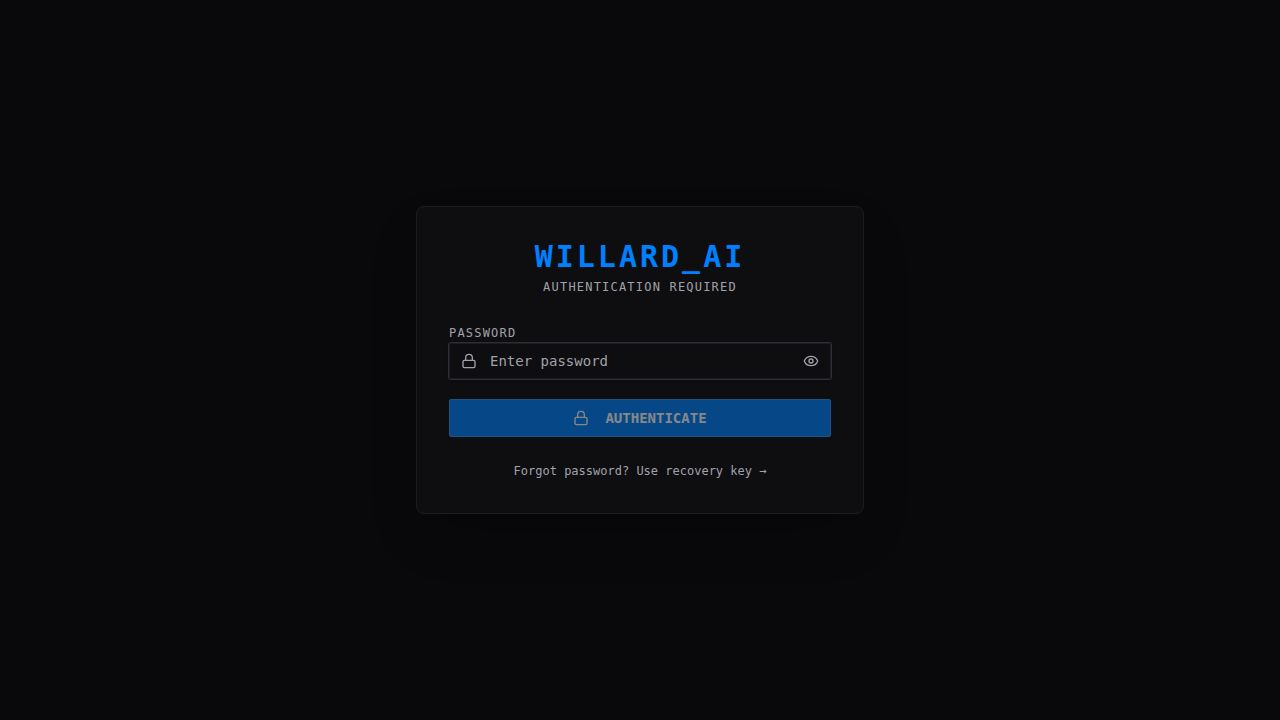
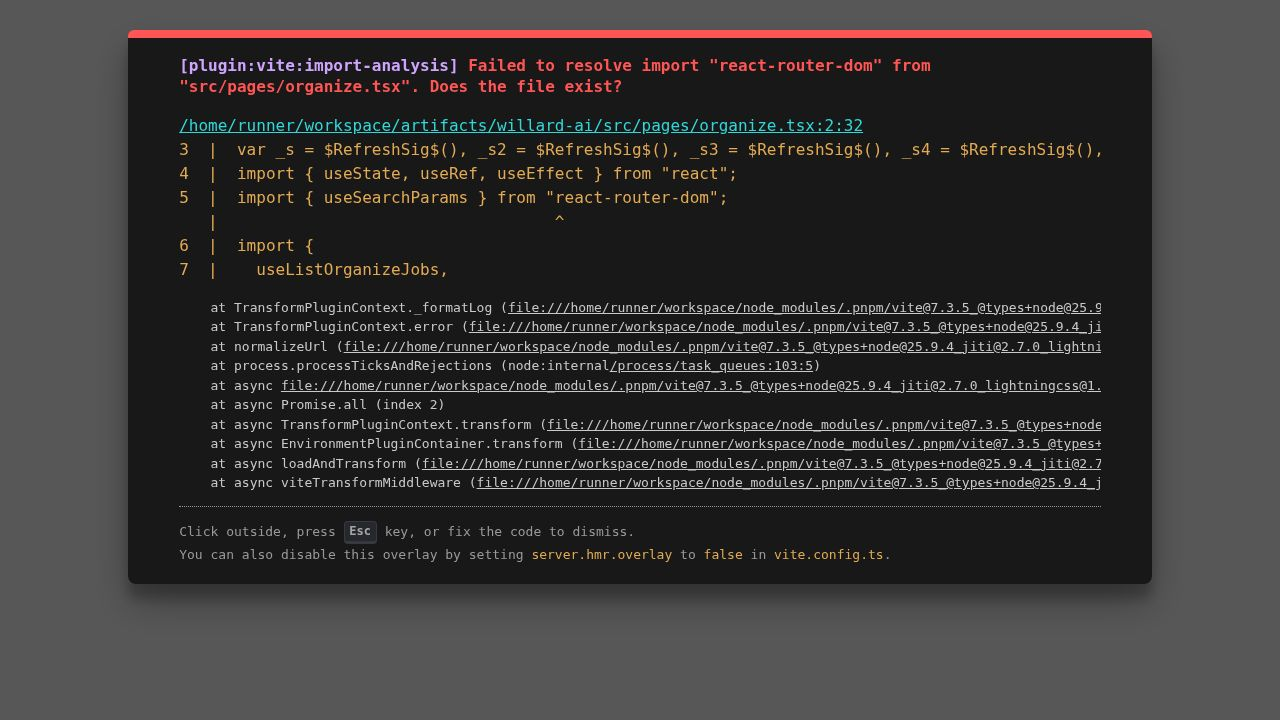
Task #127 (Scan Engine M3): Startup delay, indexOtherFiles toggle, UI note
Adaptive startup delay:
- Added notifyUiConnected() / waitForUiConnected() startup gate in
  job-engine.ts — resolves on first authenticated UI request or after
  30-second fallback timeout
- Auth middleware (app.ts) calls notifyUiConnected() on first
  authenticated API request (_firstAuthSeen flag, idempotent)
- startLibraryWatcher() now defers its first heartbeat until the gate
  fires instead of using the hardcoded 4-second initial timer
- waitForUiConnected exported via library-engine/index.ts

Index other files toggle:
- Added indexOtherFiles boolean (default true) to app_settings schema
  (lib/db/src/schema/settings.ts) and bootstrapSessionTable migration
  (ADD COLUMN IF NOT EXISTS index_other_files boolean NOT NULL DEFAULT true)
- Added indexOtherFiles to ScannerSettings interface + DEFAULT_SCANNER_SETTINGS
  (system-filter.ts) and new "other_type_excluded" SkipReason value
- Both walkNas (sync) and walkNasAsync (async) skip files where
  classifyMediaType(ext) === "other" when indexOtherFiles is false,
  BEFORE stat() for maximum NAS I/O savings
- runScanJob (job-engine.ts) selects and passes indexOtherFiles through
  to the walker via ScannerSettings
- GET /api/settings/scanner and PUT /api/settings/scanner now expose
  and accept indexOtherFiles (routes/settings.ts)

UI:
- Added "Index other file types" to the TOGGLES array in settings.tsx
- Added amber warning note in the Exclusion Toggles card body when
[…]

diff --git a/artifacts/api-server/src/lib/library-engine/job-engine.ts b/artifacts/api-server/src/lib/library-engine/job-engine.ts
@@ -48,6 +48,26 @@ export function clearThumbnailPriority(nasPath: string): void {
 // when a new job starts.
 let lastCompletedProgress: ProgressEvent | null = null;
 
+// ── Startup gate ──────────────────────────────────────────────────────────────
+// Defers background scans until the first authenticated UI request arrives, or
+// until 30 seconds elapse — whichever is first.  This keeps the app instantly
+// browsable at startup without competing with the UI for NAS I/O.
+
+let _uiConnectedResolve: (() => void) | null = null;
+const _uiConnectedPromise = new Promise<void>(resolve => {
+  _uiConnectedResolve = resolve;
+  const t = setTimeout(resolve, 30_000);
+  (t as any).unref?.();
+});
+
+export function notifyUiConnected(): void {
+  if (_uiConnectedResolve) { _uiConnectedResolve(); _uiConnectedResolve = null; }
+}
+
+export function waitForUiConnected(): Promise<void> {
+  return _uiConnectedPromise;
+}
+
 export function getLastCompletedProgress(): ProgressEvent | null {
   return lastCompletedProgress;
 }
@@ -548,6 +568,7 @@ async function runScanJob(
         ignoreSidecarFiles: appSettingsTable.ignoreSidecarFiles,
         ignoreEmptyFolders: appSettingsTable.ignoreEmptyFolders,
         followSymlinks:     appSettingsTable.followSymlinks,
+        indexOtherFiles:    appSettingsTable.indexOtherFiles,
       }).from(appSettingsTable).limit(1);
       if (settingsRow) scannerSettings = {
         ignoredFolders:    settingsRow.ignoredFolders ?? [],
@@ -558,6 +579,7 @@ async function runScanJob(
         ignoreSidecarFiles: settingsRow.ignoreSidecarFiles ?? true,
         ignoreEmptyFolders: settingsRow.ignoreEmptyFolders ?? false,
         followSymlinks:     settingsRow.followSymlinks ?? false,
+        indexOtherFiles:    settingsRow.indexOtherFiles ?? true,
       };
     } catch { /* use defaults if settings table not yet migrated */ }
 

diff --git a/artifacts/api-server/src/lib/library-watcher.ts b/artifacts/api-server/src/lib/library-watcher.ts
@@ -1,7 +1,7 @@
 import * as fs from "fs";
 import { db, appSettingsTable } from "@workspace/db";
 import { checkNasReachable } from "./nas-storage";
-import { getActiveJobId, startJob } from "./library-engine";
+import { getActiveJobId, startJob, waitForUiConnected } from "./library-engine";
 import { recordActivity } from "./library-activity";
 import { logger } from "./logger";
 
@@ -326,7 +326,13 @@ export async function runWatcherHeartbeat(): Promise<void> {
 
 export function startLibraryWatcher(): void {
   if (heartbeatTimer) return;
-  setTimeout(() => { runWatcherHeartbeat().catch(() => {}); }, 4_000);
-  heartbeatTimer = setInterval(() => { runWatcherHeartbeat().catch(() => {}); }, HEARTBEAT_MS);
-  heartbeatTimer.unref?.();
+  // Defer the first heartbeat until the UI connects (first authenticated request)
+  // or the 30-second fallback fires.  Prevents the initial sweep from competing
+  // with the UI for NAS bandwidth before the user sees the first page.
+  waitForUiConnected().then(() => {
+    if (heartbeatTimer) return; // guard against duplicate calls
+    runWatcherHeartbeat().catch(() => {});
+    heartbeatTimer = setInterval(() => { runWatcherHeartbeat().catch(() => {}); }, HEARTBEAT_MS);
+    heartbeatTimer.unref?.();
+  }).catch(() => {});
 }

diff --git a/artifacts/api-server/src/app.ts b/artifacts/api-server/src/app.ts
@@ -12,7 +12,7 @@ import router from "./routes";
 import { logger } from "./lib/logger";
 import { bootstrapWillardAIDir, nasLogStream, checkNasReachable } from "./lib/nas-storage";
 import { checkMediaToolsOnStartup } from "./lib/media-tools";
-import { recoverInterruptedJobs } from "./lib/library-engine";
+import { recoverInterruptedJobs, notifyUiConnected } from "./lib/library-engine";
 import { warmThumbnailCache } from "./routes/media";
 import { startLibraryMonitor } from "./lib/library-monitor";
 import { startLibraryWatcher } from "./lib/library-watcher";
@@ -199,7 +199,8 @@ export async function bootstrapSessionTable(): Promise<void> {
       ADD COLUMN IF NOT EXISTS ignore_temp_files    boolean NOT NULL DEFAULT true,
       ADD COLUMN IF NOT EXISTS ignore_sidecar_files boolean NOT NULL DEFAULT true,
       ADD COLUMN IF NOT EXISTS ignore_empty_folders boolean NOT NULL DEFAULT false,
-      ADD COLUMN IF NOT EXISTS follow_symlinks      boolean NOT NULL DEFAULT false;
+      ADD COLUMN IF NOT EXISTS follow_symlinks      boolean NOT NULL DEFAULT false,
+      ADD COLUMN IF NOT EXISTS index_other_files    boolean NOT NULL DEFAULT true;
   `);
   await pool.query(`
     DELETE FROM media_files
@@ -289,6 +290,10 @@ const PUBLIC_PATHS = new Set([
   "/auth/recover",
 ]);
 
+// Fire the startup gate on the very first authenticated API request.
+// Trips at most once per process; subsequent calls to notifyUiConnected() are no-ops.
+let _firstAuthSeen = false;
+
 app.use("/api", (req: Request, res: Response, next: NextFunction) => {
   if (PUBLIC_PATHS.has(req.path)) {
     return next();
@@ -305,6 +310,10 @@ app.use("/api", (req: Request, res: Response, next: NextFunction) => {
       res.status(401).json({ error: "Session expired due to inactivity. Please log in again." });
       return;
     }
+  }
+  if (!_firstAuthSeen) {
+    _firstAuthSeen = true;
+    notifyUiConnected();
   }
   sess.lastSeenAt = new Date().toISOString();
   next();

diff --git a/artifacts/willard-ai/src/pages/settings.tsx b/artifacts/willard-ai/src/pages/settings.tsx
@@ -449,6 +449,7 @@ interface ScannerSettings {
   ignoreSidecarFiles: boolean;
   ignoreEmptyFolders: boolean;
   followSymlinks:     boolean;
+  indexOtherFiles:    boolean;
 }
 
 const SCANNER_DEFAULTS: ScannerSettings = {
@@ -456,6 +457,7 @@ const SCANNER_DEFAULTS: ScannerSettings = {
   ignoreHiddenFiles: true, ignoreSystemFiles: true,
   ignoreTempFiles: true, ignoreSidecarFiles: true,
   ignoreEmptyFolders: false, followSymlinks: false,
+  indexOtherFiles: true,
 };
 
 function ScannerSettingsSection() {
@@ -545,6 +547,7 @@ function ScannerSettingsSection() {
     { key: "ignoreSidecarFiles", label: "Skip sidecar files",      description: "Camera sidecar thumbnails (.thm)" },
     { key: "ignoreEmptyFolders", label: "Skip empty folders",      description: "Don't record folders with no indexable files" },
     { key: "followSymlinks",     label: "Follow symbolic links",   description: "Index files reached via symlinks (use with care to avoid loops)" },
+    { key: "indexOtherFiles",    label: "Index other file types",  description: "Include executables, archives, disk images, and other non-media files (exe, dll, iso, zip…)" },
   ];
 
   if (loading) return (
@@ -585,6 +588,16 @@ function ScannerSettingsSection() {
               />
             </div>
           ))}
+          {!settings.indexOtherFiles && (
+            <div className="rounded-md border border-amber-500/30 bg-amber-500/10 px-3 py-2 text-xs text-amber-700 dark:text-amber-400 font-mono flex items-start gap-2">
+              <span className="shrink-0 mt-px">⚠</span>
+              <span>
+                Other file types excluded from indexing — executables, archives, disk images, and similar
+                files (exe, dll, iso, zip…) will be skipped by the scanner.
+                Enable <strong>Index other file types</strong> above to include them.
+              </span>
+            </div>
+          )}
         </CardContent>
       </Card>
 

diff --git a/artifacts/api-server/src/lib/library-engine/indexer.ts b/artifacts/api-server/src/lib/library-engine/indexer.ts
@@ -469,6 +469,12 @@ export function walkNas(
         return;
       }
 
+      // Skip unclassified (non-media, non-document) files when the toggle is off
+      if (!settings.indexOtherFiles && classifyMediaType(ext) === "other") {
+        onSkip?.(fullPath, "other_type_excluded");
+        return;
+      }
+
       try {
         const stat = fs.statSync(fullPath);
         results.push({ fullPath, name: entry.name, ext, sizeBytes: stat.size, modifiedAt: stat.mtime });
@@ -694,6 +700,12 @@ export async function walkNasAsync(
       const ext = path.extname(entry.name).replace(/^\./, "").toLowerCase();
       const skipReason = checkSystemFile(entry.name, ext, settings);
       if (skipReason !== null) { onSkip?.(fullPath, skipReason); return; }
+
+      // Skip unclassified (non-media, non-document) files when the toggle is off
+      if (!settings.indexOtherFiles && classifyMediaType(ext) === "other") {
+        onSkip?.(fullPath, "other_type_excluded");
+        return;
+      }
 
       if (stopSignal?.stop) return;
 

diff --git a/artifacts/api-server/src/lib/system-filter.ts b/artifacts/api-server/src/lib/system-filter.ts
@@ -9,6 +9,7 @@ export interface ScannerSettings {
   ignoreSidecarFiles: boolean;
   ignoreEmptyFolders: boolean;
   followSymlinks:     boolean;
+  indexOtherFiles:    boolean;
 }
 
 export const DEFAULT_SCANNER_SETTINGS: ScannerSettings = {
@@ -20,6 +21,7 @@ export const DEFAULT_SCANNER_SETTINGS: ScannerSettings = {
   ignoreSidecarFiles: true,
   ignoreEmptyFolders: false,
   followSymlinks:     false,
+  indexOtherFiles:    true,
 };
 
 // ── Canonical skip reason codes ───────────────────────────────────────────────
@@ -28,11 +30,12 @@ export const DEFAULT_SCANNER_SETTINGS: ScannerSettings = {
 // system_directory to keep the external API surface stable and minimal.
 
 export type SkipReason =
-  | "system_file"         // metadata/temp/sidecar files excluded by system rules
-  | "hidden_file"         // dot-prefix files when ignoreHiddenFiles is on
-  | "user_ignored_folder" // user-configured folder exclusion
+  | "system_file"          // metadata/temp/sidecar files excluded by system rules
+  | "hidden_file"          // dot-prefix files when ignoreHiddenFiles is on
+  | "user_ignored_folder"  // user-configured folder exclusion
   | "user_ignored_extension" // user-configured extension exclusion
-  | "system_directory";   // system/hidden directories (including empty dirs)
+  | "system_directory"     // system/hidden directories (including empty dirs)
+  | "other_type_excluded"; // indexOtherFiles=false skips unclassified file types
 
 // ── File-name / extension sets ────────────────────────────────────────────────
 

diff --git a/artifacts/api-server/src/routes/settings.ts b/artifacts/api-server/src/routes/settings.ts
@@ -270,6 +270,7 @@ router.get("/settings/scanner", async (_req, res) => {
       ignoreSidecarFiles: settings.ignoreSidecarFiles ?? true,
       ignoreEmptyFolders: settings.ignoreEmptyFolders ?? false,
       followSymlinks:     settings.followSymlinks     ?? false,
+      indexOtherFiles:    settings.indexOtherFiles    ?? true,
     });
   } catch {
     res.status(500).json({ error: "Failed to load scanner settings" });
@@ -297,7 +298,7 @@ router.put("/settings/scanner", async (req, res) => {
     if (ignoredFolders    !== undefined) patch["ignoredFolders"]    = ignoredFolders;
     if (ignoredExtensions !== undefined) patch["ignoredExtensions"] = ignoredExtensions;
 
-    for (const key of ["ignoreHiddenFiles","ignoreSystemFiles","ignoreTempFiles","ignoreSidecarFiles","ignoreEmptyFolders","followSymlinks"] as const) {
+    for (const key of ["ignoreHiddenFiles","ignoreSystemFiles","ignoreTempFiles","ignoreSidecarFiles","ignoreEmptyFolders","followSymlinks","indexOtherFiles"] as const) {
       if (typeof body[key] === "boolean") patch[key] = body[key];
     }
 
@@ -321,6 +322,7 @@ router.put("/settings/scanner", async (req, res) => {
       ignoreSidecarFiles: updated.ignoreSidecarFiles ?? true,
       ignoreEmptyFolders: updated.ignoreEmptyFolders ?? false,
       followSymlinks:     updated.followSymlinks     ?? false,
+      indexOtherFiles:    updated.indexOtherFiles    ?? true,
     });
   } catch {
     res.status(500).json({ error: "Failed to update scanner settings" });

diff --git a/artifacts/api-server/src/lib/library-engine/index.ts b/artifacts/api-server/src/lib/library-engine/index.ts
@@ -11,4 +11,6 @@ export {
   recoverInterruptedJobs,
   addThumbnailPriority,
   clearThumbnailPriority,
+  notifyUiConnected,
+  waitForUiConnected,
 } from "./job-engine";

diff --git a/lib/db/src/schema/settings.ts b/lib/db/src/schema/settings.ts
@@ -27,6 +27,7 @@ export const appSettingsTable = pgTable("app_settings", {
   ignoreSidecarFiles: boolean("ignore_sidecar_files").notNull().default(true),
   ignoreEmptyFolders: boolean("ignore_empty_folders").notNull().default(false),
   followSymlinks:     boolean("follow_symlinks").notNull().default(false),
+  indexOtherFiles:    boolean("index_other_files").notNull().default(true),
 });
 
 export const insertAppSettingsSchema = createInsertSchema(appSettingsTable).omit({ id: true });